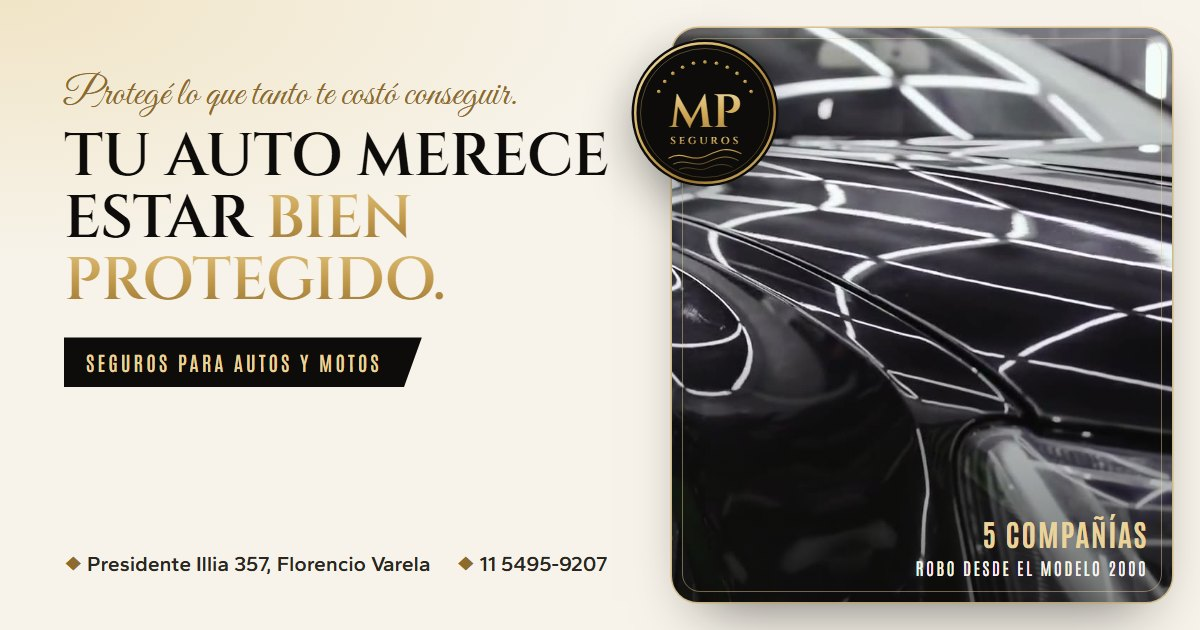
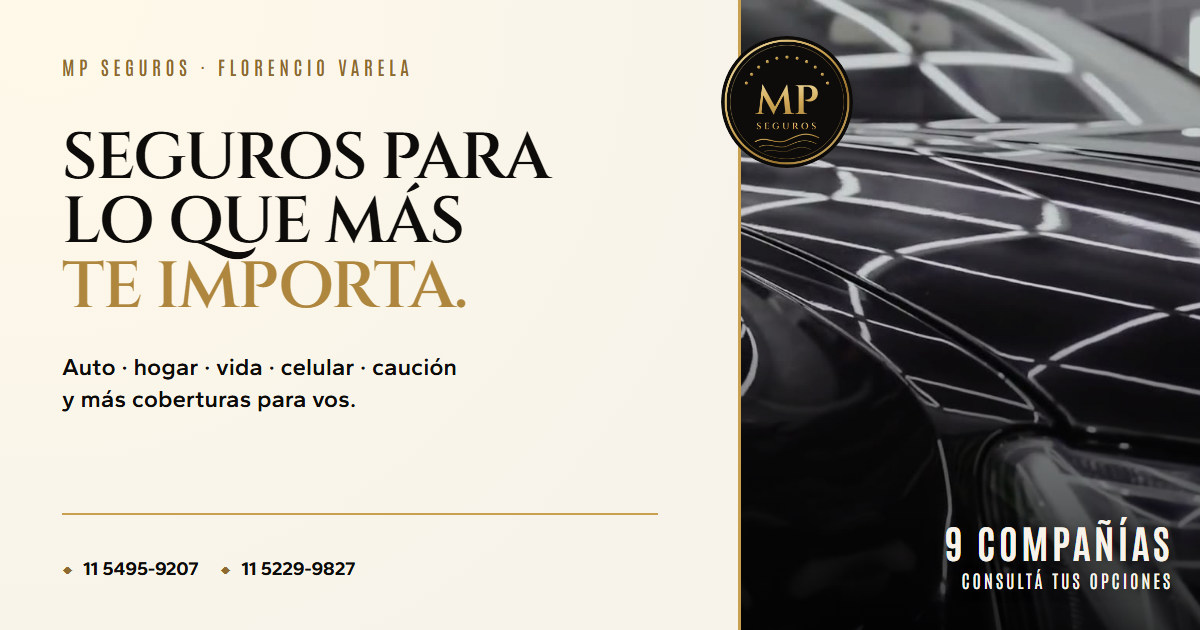
feat(demompseguros): actualizar coberturas, compañías y contactos

diff --git a/demompseguros/index.html b/demompseguros/index.html
@@ -3,17 +3,17 @@
 <head>
   <meta charset="UTF-8">
   <meta name="viewport" content="width=device-width, initial-scale=1, viewport-fit=cover">
-  <title>MP Seguros | Seguros de auto y moto en Florencio Varela</title>
-  <meta name="description" content="Seguros de auto, moto, camioneta, camión, bici y hogar en Florencio Varela. Cotizamos en 5 compañías y cubrimos robo desde el modelo 2000. Mandá tu cédula.">
-  <meta name="keywords" content="seguros Florencio Varela, seguro de auto Florencio Varela, seguro de moto, seguro para Uber, seguro DiDi, seguro Cabify, seguro de camión, seguro de hogar, MP Seguros, Presidente Illia 357">
+  <title>MP Seguros | Auto, vida y caución en Florencio Varela</title>
+  <meta name="description" content="Seguros de auto, moto, hogar, celular, vida, accidentes personales, bolso deportivo y caución en Florencio Varela. Consultá con MP Seguros por WhatsApp.">
+  <meta name="keywords" content="seguros Florencio Varela, seguro de auto, seguro de moto, seguro de celular, accidentes personales, seguro de vida, bolso deportivo, seguro de caución, MP Seguros">
   <meta name="author" content="TuPaginaYa">
   <meta name="robots" content="index, follow">
   <meta name="theme-color" content="#0D0C0A">
   <link rel="canonical" href="https://tusitiowebya.github.io/demompseguros/">
 
   <meta property="og:type" content="website">
-  <meta property="og:title" content="MP Seguros | Seguros de auto y moto en Florencio Varela">
-  <meta property="og:description" content="Seguros de auto, moto, camioneta, camión, bici y hogar en Florencio Varela. Cotizamos en 5 compañías y cubrimos robo desde el modelo 2000. Mandá tu cédula.">
+  <meta property="og:title" content="MP Seguros | Auto, vida y caución en Florencio Varela">
+  <meta property="og:description" content="Seguros de auto, moto, hogar, celular, vida, accidentes personales, bolso deportivo y caución en Florencio Varela. Consultá con MP Seguros por WhatsApp.">
   <meta property="og:url" content="https://tusitiowebya.github.io/demompseguros/">
   <meta property="og:image" content="https://tusitiowebya.github.io/demompseguros/og-image.jpg">
   <meta property="og:image:width" content="1200">
@@ -22,8 +22,8 @@
   <meta property="og:site_name" content="MP Seguros">
   <meta property="og:locale" content="es_AR">
   <meta name="twitter:card" content="summary_large_image">
-  <meta name="twitter:title" content="MP Seguros | Seguros de auto y moto en Florencio Varela">
-  <meta name="twitter:description" content="Cotizamos tu auto, moto, camioneta, camión, bici u hogar en 5 compañías. Robo desde el modelo 2000. Mandá tu cédula por WhatsApp.">
+  <meta name="twitter:title" content="MP Seguros | Auto, vida y caución en Florencio Varela">
+  <meta name="twitter:description" content="Auto, moto, hogar, celular, vida, accidentes personales, bolso deportivo y caución. Escribinos por WhatsApp y recibí cotizaciones.">
   <meta name="twitter:image" content="https://tusitiowebya.github.io/demompseguros/og-image.jpg">
 
   <link rel="icon" type="image/png" sizes="32x32" href="favicon-32.png">
@@ -41,7 +41,7 @@
     "@context": "https://schema.org",
     "@type": "InsuranceAgency",
     "name": "MP Seguros",
-    "description": "Seguros para autos, motos, camionetas, camiones, bicis y hogar en Florencio Varela. Cotización en Paraná Seguros, Agrosalta, San Patricio, ATM y Sancor Seguros, con asesoramiento sin cargo.",
+    "description": "Seguros para vehículos, hogar, celular, accidentes personales, vida, bolso deportivo y caución en Florencio Varela, con asesoramiento sin cargo.",
     "slogan": "Protegemos lo que más te importa",
     "url": "https://tusitiowebya.github.io/demompseguros/",
     "logo": "https://tusitiowebya.github.io/demompseguros/favicon-512.png",
@@ -57,12 +57,10 @@
     },
     "areaServed": { "@type": "City", "name": "Florencio Varela" },
     "sameAs": ["https://www.instagram.com/mpsegurospremium/"],
-    "contactPoint": {
-      "@type": "ContactPoint",
-      "telephone": "+54 9 11 5495-9207",
-      "contactType": "sales",
-      "availableLanguage": "es"
-    },
+    "contactPoint": [
+      { "@type": "ContactPoint", "telephone": "+54 9 11 5495-9207", "contactType": "sales", "availableLanguage": "es" },
+      { "@type": "ContactPoint", "telephone": "+54 9 11 5229-9827", "contactType": "sales", "availableLanguage": "es" }
+    ],
     "hasOfferCatalog": {
       "@type": "OfferCatalog",
       "name": "Seguros",
@@ -72,7 +70,12 @@
         { "@type": "Offer", "itemOffered": { "@type": "Service", "name": "Seguro para autos y motos de aplicaciones (Uber, DiDi, Cabify)" } },
         { "@type": "Offer", "itemOffered": { "@type": "Service", "name": "Seguro de camioneta y camión" } },
         { "@type": "Offer", "itemOffered": { "@type": "Service", "name": "Seguro de bicicleta" } },
-        { "@type": "Offer", "itemOffered": { "@type": "Service", "name": "Seguro de hogar" } }
+        { "@type": "Offer", "itemOffered": { "@type": "Service", "name": "Seguro de hogar" } },
+        { "@type": "Offer", "itemOffered": { "@type": "Service", "name": "Seguro de celular" } },
+        { "@type": "Offer", "itemOffered": { "@type": "Service", "name": "Seguro de accidentes personales" } },
+        { "@type": "Offer", "itemOffered": { "@type": "Service", "name": "Seguro de vida" } },
+        { "@type": "Offer", "itemOffered": { "@type": "Service", "name": "Seguro de bolso deportivo" } },
+        { "@type": "Offer", "itemOffered": { "@type": "Service", "name": "Seguro de caución" } }
       ]
     }
   }
@@ -115,15 +118,16 @@
           <span class="l2">estar <em>bien protegido.</em></span>
         </h1>
         <div class="hero__row">
-          <p class="hero__lead">Seguros para <strong>autos, motos, camionetas, camiones, bicis y hogar</strong> en Florencio Varela. Te cotizamos en <strong>5 compañías</strong> y te asesoramos sin cargo.</p>
+          <p class="hero__lead">Seguros para <strong>vehículos, hogar, celular, accidentes personales, vida, bolso deportivo y caución</strong> en Florencio Varela. Te acercamos opciones de <strong>9 compañías</strong> y te asesoramos sin cargo.</p>
           <div class="hero__cta">
-            <a class="btn btn--ink" href="https://wa.me/5491154959207?text=Hola%20MP%20Seguros!%20Quiero%20cotizar.%20Les%20mando%20foto%20de%20la%20c%C3%A9dula%20(frente%20y%20dorso)." target="_blank" rel="noopener" data-wa="cedula">
+            <a class="btn btn--ink" href="https://wa.me/5491154959207?text=Hola%20MP%20Seguros!%20Quiero%20cotizar.%20Les%20mando%20foto%20de%20la%20c%C3%A9dula%20verde%20(frente%20y%20dorso)." target="_blank" rel="noopener" data-wa="cedula">
               <svg viewBox="0 0 24 24" aria-hidden="true"><use href="#i-wa"/></svg>
-              Mandanos tu cédula
+              Envíanos tu cédula verde
             </a>
             <a class="btn btn--line" href="#cotizar">Armá tu consulta <span aria-hidden="true">↓</span></a>
           </div>
         </div>
+        <p class="hero__credential">Código de productor 80.117</p>
       </div>
 
       <div class="hero__stage">
@@ -133,7 +137,7 @@
           </video>
           <div class="hero__shade" aria-hidden="true"></div>
           <ul class="hero__facts" aria-label="Lo principal">
-            <li><b>5</b><span>compañías <br>para comparar</span></li>
+            <li><b>9</b><span>compañías <br>para comparar</span></li>
             <li><b>2000</b><span>robo desde <br>ese modelo</span></li>
             <li><b>$0</b><span>asesoramiento <br>sin cargo</span></li>
           </ul>
@@ -166,8 +170,8 @@
       <div class="wrap">
         <header class="quote__head reveal">
           <p class="kicker">Cotizá en el momento</p>
-          <h2>Mandanos tu cédula<br><span>y te decimos cuánto sale.</span></h2>
-          <p class="quote__intro">Contanos qué querés asegurar. Armamos la consulta con todo lo que necesitamos y la mandás por WhatsApp con la foto de la cédula. Así te cotizamos en las 5 compañías de una.</p>
+          <h2>Envíanos tu cédula verde<br><span>te enviamos las mejores cotizaciones.</span></h2>
+          <p class="quote__intro">Si querés asegurar un vehículo, armá tu consulta y adjuntá una foto de la cédula verde por WhatsApp. Para celular, vida y otros seguros, encontrá el acceso directo más abajo.</p>
         </header>
 
         <div class="quote__grid">
@@ -237,17 +241,23 @@
               </div>
               <div class="ficha__cias">
                 <span>Comparamos en</span>
-                <ul><li>Paraná</li><li>Agrosalta</li><li>San Patricio</li><li>ATM</li><li>Sancor</li></ul>
+                <ul><li>Zurich</li><li>Sancor</li><li>BBVA</li><li>Agrosalta</li><li>AMCA</li><li>Plenaria</li><li>ATM</li><li>San Patricio</li><li>Digna</li></ul>
               </div>
               <div class="ficha__stamp" id="stamp" aria-hidden="true">
                 <svg viewBox="0 0 120 120"><circle cx="60" cy="60" r="54"/><circle cx="60" cy="60" r="46"/><text x="60" y="56">LISTA</text><text x="60" y="74" class="s">PARA COTIZAR</text></svg>
               </div>
             </div>
-            <a class="btn btn--wa btn--block" id="quoteSend" href="#" target="_blank" rel="noopener">
-              <svg viewBox="0 0 24 24" aria-hidden="true"><use href="#i-wa"/></svg>
-              Enviar consulta por WhatsApp
-            </a>
-            <p class="card-note" id="quoteNote">En el chat adjuntá la foto de la cédula (frente y dorso). La cobertura final depende de la compañía y del vehículo: te la explicamos antes de emitir.</p>
+            <div class="quote__send">
+              <a class="btn btn--wa btn--block" id="quoteSend" href="#" target="_blank" rel="noopener">
+                <svg viewBox="0 0 24 24" aria-hidden="true"><use href="#i-wa"/></svg>
+                Enviar al 11 5495-9207
+              </a>
+              <a class="btn btn--line btn--block" id="quoteSendAlt" href="#" target="_blank" rel="noopener">
+                <svg viewBox="0 0 24 24" aria-hidden="true"><use href="#i-wa"/></svg>
+                Enviar al 11 5229-9827
+              </a>
+            </div>
+            <p class="card-note" id="quoteNote">Si cotizás un vehículo, adjuntá la foto de la cédula verde (frente y dorso). Las coberturas dependen de la compañía: te explicamos las opciones antes de emitir.</p>
           </aside>
         </div>
       </div>
@@ -264,15 +274,19 @@
       <div class="wrap">
         <div class="cias__head reveal">
           <p class="script">¡Tenemos nuevas compañías para vos!</p>
-          <h2>Una consulta.<br>Cinco compañías.</h2>
+          <h2>Una consulta.<br>Nueve compañías.</h2>
           <p>No te atás a una sola aseguradora: comparamos por vos y te explicamos las diferencias en criollo, para que elijas la que mejor te cubre.</p>
         </div>
         <ol class="cias__list reveal" aria-label="Compañías con las que trabajamos">
-          <li style="--c:#1F3F8F"><span class="n">01</span><b>Paraná</b><small>Seguros</small></li>
-          <li style="--c:#E08A1E"><span class="n">02</span><b>Agrosalta</b><small>Cooperativa de Seguros Ltda.</small></li>
-          <li style="--c:#C8201E"><span class="n">03</span><b>San Patricio</b><small>Seguros</small></li>
-          <li style="--c:#B0182C"><span class="n">04</span><b>ATM</b><small>Seguros</small></li>
-          <li style="--c:#B01E68"><span class="n">05</span><b>Sancor</b><small>Seguros</small></li>
+          <li style="--c:#2E78B7"><span class="n">01</span><b>Zurich</b><small>Seguros</small></li>
+          <li style="--c:#B01E68"><span class="n">02</span><b>Sancor</b><small>Seguros</small></li>
+          <li style="--c:#1764B2"><span class="n">03</span><b>BBVA</b><small>Seguros</small></li>
+          <li style="--c:#E08A1E"><span class="n">04</span><b>Agrosalta</b><small>Seguros</small></li>
+          <li style="--c:#6E8C45"><span class="n">05</span><b>AMCA</b><small>Seguros</small></li>
+          <li style="--c:#7462A1"><span class="n">06</span><b>Plenaria</b><small>Seguros</small></li>
+          <li style="--c:#B0182C"><span class="n">07</span><b>ATM</b><small>Seguros</small></li>
+          <li style="--c:#C8201E"><span class="n">08</span><b>San Patricio</b><small>Seguros</small></li>
+          <li style="--c:#A46B45"><span class="n">09</span><b>Digna</b><small>Seguros</small></li>
         </ol>
         <ul class="cias__why reveal">
           <li><svg viewBox="0 0 24 24" aria-hidden="true"><use href="#i-shield"/></svg><b>Más opciones</b><span>para vos</span></li>
@@ -329,6 +343,20 @@
             <h3>Tu casa, también.</h3>
             <p>Además de vehículos, cotizamos seguro de hogar para casa, departamento o PH, seas propietario o inquilino.</p>
             <button class="btn btn--ink" type="button" data-preset="hogar">Cotizar mi hogar</button>
+          </div>
+        </div>
+        <div class="fleet__more reveal" id="otros-seguros">
+          <div class="fleet__more-head">
+            <p class="kicker">Otras coberturas</p>
+            <h3>También aseguramos lo que te acompaña todos los días.</h3>
+            <p>Elegí lo que necesitás y abrí una consulta por WhatsApp. Te contamos qué opciones hay para tu caso.</p>
+          </div>
+          <div class="fleet__more-list">
+            <a data-product="un seguro de celular" href="https://wa.me/5491154959207" target="_blank" rel="noopener"><span>01</span><b>Celular</b><small>Consultar seguro ↗</small></a>
+            <a data-product="un seguro de accidentes personales" href="https://wa.me/5491154959207" target="_blank" rel="noopener"><span>02</span><b>Accidentes personales</b><small>Consultar seguro ↗</small></a>
+            <a data-product="un seguro de vida" href="https://wa.me/5491154959207" target="_blank" rel="noopener"><span>03</span><b>Vida</b><small>Consultar seguro ↗</small></a>
+            <a data-product="un seguro de bolso deportivo" href="https://wa.me/5491154959207" target="_blank" rel="noopener"><span>04</span><b>Bolso deportivo</b><small>Consultar seguro ↗</small></a>
+            <a data-product="un seguro de caución" href="https://wa.me/5491154959207" target="_blank" rel="noopener"><span>05</span><b>Caución</b><small>Consultar seguro ↗</small></a>
           </div>
         </div>
       </div>
@@ -395,7 +423,6 @@
       <div class="ig__rail reveal" tabindex="0" aria-label="Publicaciones de Instagram">
         <a href="https://www.instagram.com/p/Dc1nXRoNvlU/" target="_blank" rel="noopener"><img src="img/ig-auto.jpg" alt="Flyer: Tu auto merece estar bien protegido. Cobertura de robo desde el año 2000" loading="lazy" width="720" height="900"></a>
         <a href="https://www.instagram.com/p/Dc-M1-qOjgQ/" target="_blank" rel="noopener"><img src="img/ig-apps.jpg" alt="Flyer: Asegurá tu auto o moto para aplicaciones Uber, DiDi y Cabify" loading="lazy" width="720" height="900"></a>
-        <a href="https://www.instagram.com/p/Dc-MSVluysm/" target="_blank" rel="noopener"><img src="img/ig-companias.jpg" alt="Flyer: Tenemos nuevas compañías para vos" loading="lazy" width="720" height="900"></a>
         <a href="https://www.instagram.com/p/DcyX6Vxu5E1/" target="_blank" rel="noopener"><img src="img/ig-vehiculos.jpg" alt="Flyer: Aseguramos todos tus vehículos: camión, camioneta, auto, moto y bici" loading="lazy" width="720" height="720"></a>
         <a href="https://www.instagram.com/reel/DdCUkAmzemS/" target="_blank" rel="noopener"><img src="img/ig-choques.jpg" alt="Reel: Nosotros cubrimos tus choques, asistencia en el lugar del accidente" loading="lazy" width="506" height="900"></a>
         <a href="https://www.instagram.com/p/DcynqceOZRz/" target="_blank" rel="noopener"><img src="img/ig-instagram.jpg" alt="Flyer: ¿Ya nos seguís en Instagram?" loading="lazy" width="720" height="900"></a>
@@ -425,11 +452,11 @@
           <h2>Preguntas frecuentes</h2>
           <details>
             <summary>¿Qué necesito para cotizar?</summary>
-            <p>Con una foto de la cédula del vehículo (frente y dorso) alcanza para arrancar. Si no la tenés a mano, pasanos marca, modelo, año y para qué lo usás. Para hogar, el tipo de vivienda y la zona.</p>
+            <p>Para vehículos, mandanos una foto de la cédula verde (frente y dorso). Si no la tenés a mano, pasanos marca, modelo, año y uso. Para hogar y las demás coberturas, contanos qué querés asegurar y te indicamos los datos necesarios.</p>
           </details>
           <details>
             <summary>¿Con qué compañías trabajan?</summary>
-            <p>Cotizamos en Paraná Seguros, Agrosalta Cooperativa de Seguros, San Patricio Seguros, ATM Seguros y Sancor Seguros. Te mostramos las opciones y te explicamos las diferencias.</p>
+            <p>Trabajamos con Zurich, Sancor, BBVA, Agrosalta, AMCA, Plenaria, ATM, San Patricio y Digna. Te mostramos las opciones disponibles para tu caso y te explicamos las diferencias.</p>
           </details>
           <details>
             <summary>¿Aseguran contra robo autos más viejos?</summary>
@@ -457,10 +484,14 @@
         <svg class="close__seal" viewBox="0 0 200 200" aria-hidden="true"><use href="#seal"/></svg>
         <p class="script">Estamos para acompañarte</p>
         <h2>Protegemos lo que más te importa.</h2>
-        <a class="btn btn--gold btn--xl" href="https://wa.me/5491154959207?text=Hola%20MP%20Seguros!%20Quiero%20cotizar%20un%20seguro." target="_blank" rel="noopener" data-wa="cierre">
-          <svg viewBox="0 0 24 24" aria-hidden="true"><use href="#i-wa"/></svg>
-          Hablemos por WhatsApp<span class="btn__num"> · 11 5495-9207</span>
-        </a>
+        <div class="close__actions">
+          <a class="btn btn--gold btn--xl" href="https://wa.me/5491154959207?text=Hola%20MP%20Seguros!%20Quiero%20cotizar%20un%20seguro." target="_blank" rel="noopener" data-wa="cierre">
+            <svg viewBox="0 0 24 24" aria-hidden="true"><use href="#i-wa"/></svg>11 5495-9207
+          </a>
+          <a class="btn btn--ghost-light btn--xl" href="https://wa.me/5491152299827?text=Hola%20MP%20Seguros!%20Quiero%20cotizar%20un%20seguro." target="_blank" rel="noopener" data-wa="cierre-alt">
+            <svg viewBox="0 0 24 24" aria-hidden="true"><use href="#i-wa"/></svg>11 5229-9827
+          </a>
+        </div>
       </div>
     </section>
   </main>
@@ -475,7 +506,9 @@
       <ul class="foot__list">
         <li><svg viewBox="0 0 24 24" aria-hidden="true"><use href="#i-pin"/></svg>Presidente Illia 357, Florencio Varela</li>
         <li><svg viewBox="0 0 24 24" aria-hidden="true"><use href="#i-wa"/></svg><a href="https://wa.me/5491154959207" target="_blank" rel="noopener">11 5495-9207</a></li>
+        <li><svg viewBox="0 0 24 24" aria-hidden="true"><use href="#i-wa"/></svg><a href="https://wa.me/5491152299827" target="_blank" rel="noopener">11 5229-9827</a></li>
         <li><svg viewBox="0 0 24 24" aria-hidden="true"><use href="#i-ig"/></svg><a href="https://www.instagram.com/mpsegurospremium/" target="_blank" rel="noopener">@mpsegurospremium</a></li>
+        <li>Código de productor: 80.117</li>
       </ul>
       <ul class="foot__nav">
         <li><a href="#cotizar">Cotizar</a></li>

diff --git a/demompseguros/style.css b/demompseguros/style.css
@@ -178,6 +178,7 @@ p { margin: 0; }
 }
 .hero__lead { max-width: 560px; font-size: clamp(1rem, 1.25vw, 1.14rem); color: var(--ink-3); }
 .hero__lead strong { color: var(--ink); font-weight: 600; }
+.hero__credential { margin-top: 18px; font-family: var(--f-cond); font-size: .88rem; letter-spacing: .14em; text-transform: uppercase; color: var(--gold-1); }
 .hero__cta { display: flex; gap: 12px; flex-wrap: wrap; flex: none; }
 
 .hero__stage { position: relative; width: min(1320px, 100%); margin-inline: auto; min-height: 260px; display: flex; }
@@ -256,6 +257,8 @@ section h2 { font-family: var(--f-display); font-weight: 600; font-size: clamp(1
 .quote__head h2 span { font-family: var(--f-body); font-weight: 500; text-transform: none; color: var(--muted); letter-spacing: -.01em; font-size: .78em; }
 .quote__intro { margin-top: 16px; color: var(--ink-3); max-width: 640px; }
 .quote__grid { display: grid; grid-template-columns: minmax(0, 1.12fr) minmax(0, .88fr); gap: clamp(28px, 4vw, 60px); align-items: start; }
+.quote__send { display: grid; gap: 10px; }
+.quote__send .btn { justify-content: center; font-size: .94rem; }
 
 .step { border: 0; margin: 0 0 30px; padding: 0 0 30px; border-bottom: 1px dashed rgba(142, 107, 44, .35); min-width: 0; }
 .step--last { border-bottom: 0; margin-bottom: 0; }
@@ -415,12 +418,12 @@ section h2 { font-family: var(--f-display); font-weight: 600; font-size: clamp(1
 .cias__head p:last-child { color: var(--ink-3); }
 .cias__list {
   list-style: none; margin: clamp(36px, 5vw, 56px) 0 0; padding: 0;
-  display: grid; grid-template-columns: repeat(5, minmax(0, 1fr)); gap: 14px;
+  display: grid; grid-template-columns: repeat(3, minmax(0, 1fr)); gap: 14px;
 }
 .cias__list li {
   position: relative; background: var(--white); border-radius: 18px;
   padding: 22px 20px 24px; border: 1px solid var(--line);
-  display: flex; flex-direction: column; gap: 4px; min-height: 176px;
+  display: flex; flex-direction: column; gap: 4px; min-height: 150px;
   transition: transform .45s var(--ease), box-shadow .45s var(--ease);
 }
 .cias__list li::before { content: ""; position: absolute; left: 20px; right: 20px; top: 0; height: 3px; border-radius: 0 0 3px 3px; background: var(--c); }
@@ -505,6 +508,17 @@ section h2 { font-family: var(--f-display); font-weight: 600; font-size: clamp(1
 .home-band > div { padding: clamp(28px, 4vw, 56px); display: flex; flex-direction: column; justify-content: center; gap: 14px; align-items: flex-start; }
 .home-band h3 { font-family: var(--f-display); font-size: clamp(1.6rem, 3vw, 2.4rem); line-height: 1.1; }
 .home-band p { color: var(--ink-3); margin-bottom: 6px; }
+.fleet__more { margin-top: clamp(46px, 7vw, 90px); padding-top: clamp(36px, 5vw, 60px); border-top: 1px solid var(--line-2); }
+.fleet__more-head { display: grid; grid-template-columns: 1.15fr .85fr; gap: 12px clamp(24px, 5vw, 70px); align-items: end; }
+.fleet__more-head .kicker { grid-column: 1 / -1; }
+.fleet__more-head h3 { font-family: var(--f-display); font-size: clamp(1.75rem, 3vw, 2.7rem); line-height: 1.1; }
+.fleet__more-head > p:last-child { color: var(--ink-3); }
+.fleet__more-list { display: grid; grid-template-columns: repeat(5, minmax(0, 1fr)); gap: 12px; margin-top: clamp(26px, 4vw, 42px); }
+.fleet__more-list a { display: flex; flex-direction: column; min-height: 164px; padding: 20px; border-radius: 18px; border: 1px solid var(--line); background: var(--white); text-decoration: none; transition: transform .3s var(--ease), border-color .3s, box-shadow .3s; }
+.fleet__more-list a:hover, .fleet__more-list a:focus-visible { transform: translateY(-4px); border-color: var(--gold-2); box-shadow: 0 22px 35px -25px rgba(13, 12, 10, .45); }
+.fleet__more-list span { font-family: var(--f-cond); letter-spacing: .18em; color: var(--gold-1); font-size: .83rem; }
+.fleet__more-list b { margin: 18px 0 auto; font-family: var(--f-display); font-size: clamp(1.1rem, 1.5vw, 1.35rem); line-height: 1.1; }
+.fleet__more-list small { margin-top: 16px; color: var(--gold-1); font-weight: 700; }
 
 /* ---------- Si chocás ---------- */
 .crash { padding: clamp(72px, 10vw, 130px) 0; background: var(--paper-2); }
@@ -620,6 +634,7 @@ section h2 { font-family: var(--f-display); font-weight: 600; font-size: clamp(1
 .close__seal { width: 128px; height: 128px; margin-bottom: 8px; filter: drop-shadow(0 20px 30px rgba(0, 0, 0, .5)); }
 .close .script { color: var(--gold-2); }
 .close h2 { max-width: 820px; margin-bottom: 24px; }
+.close__actions { display: flex; justify-content: center; flex-wrap: wrap; gap: 12px; }
 
 /* ---------- Footer ---------- */
 .foot { background: #080706; color: rgba(247, 243, 234, .75); padding: 56px 0 28px; font-size: .95rem; }
@@ -631,6 +646,7 @@ section h2 { font-family: var(--f-display); font-weight: 600; font-size: clamp(1
 .foot__list, .foot__nav { list-style: none; margin: 0; padding: 0; display: grid; gap: 10px; }
 .foot__list li { display: flex; align-items: center; gap: 10px; }
 .foot__list svg { width: 18px; height: 18px; color: var(--gold-2); flex: none; }
+.foot__list li:last-child { color: var(--gold-2); font-family: var(--f-cond); text-transform: uppercase; letter-spacing: .08em; font-size: .86rem; }
 .foot a { text-decoration: none; }
 .foot a:hover { color: var(--gold-3); }
 .foot__legal { display: flex; justify-content: space-between; gap: 16px 30px; flex-wrap: wrap; padding-top: 22px; font-size: .82rem; color: rgba(247, 243, 234, .5); }
@@ -673,7 +689,7 @@ html.qa .promise__track, html.qa .hero__seal::after { animation: none; }
 @media (max-width: 1100px) {
   .nav__links { gap: 18px; }
   .nav__links a { font-size: .9rem; }
-  .cias__list { grid-template-columns: repeat(3, minmax(0, 1fr)); }
+  .fleet__more-list { grid-template-columns: repeat(3, minmax(0, 1fr)); }
   .garage { grid-template-columns: repeat(3, minmax(0, 1fr)); }
 }
 
@@ -711,6 +727,7 @@ html.qa .promise__track, html.qa .hero__seal::after { animation: none; }
   .fleet__row { grid-template-columns: repeat(3, minmax(0, 1fr)); }
   .fleet__row button:nth-child(4)::before { display: none; }
   .home-band { grid-template-columns: 1fr; }
+  .fleet__more-head { grid-template-columns: 1fr; }
   .client__grid .phone { order: 2; }
   .foot__grid { grid-template-columns: 1fr 1fr; }
   .foot__brand { grid-column: 1 / -1; }
@@ -749,6 +766,8 @@ html.qa .promise__track, html.qa .hero__seal::after { animation: none; }
   .cias__list li { min-height: 150px; min-width: 0; padding: 20px 16px 22px; }
   .cias__list b { font-size: 1.32rem; overflow-wrap: anywhere; }
   .cias__list li:last-child { grid-column: 1 / -1; }
+  .fleet__more-list { grid-template-columns: repeat(2, minmax(0, 1fr)); }
+  .fleet__more-list a:last-child { grid-column: 1 / -1; }
   .checks { grid-template-columns: 1fr; }
   .fields { grid-template-columns: 1fr; }
   .client__actions { grid-template-columns: 1fr; }
@@ -770,6 +789,10 @@ html.qa .promise__track, html.qa .hero__seal::after { animation: none; }
   .apps .ribbon span { font-size: .9rem; letter-spacing: .1em; }
   .fleet__row svg { width: 60px; height: 60px; padding: 11px; }
   .fleet__row span { font-size: .85rem; letter-spacing: .1em; }
+  .fleet__more-list a { min-height: 144px; padding: 16px; }
+  .fleet__more-list b { font-size: 1.18rem; }
+  .close__actions { width: 100%; }
+  .close__actions .btn { width: 100%; }
   .foot__grid { grid-template-columns: 1fr; }
   .btn--xl { font-size: .98rem; padding: 16px 18px; }
   .btn__num { display: none; }

diff --git a/demompseguros/script.js b/demompseguros/script.js
@@ -3,9 +3,10 @@
   'use strict';
 
   var WA = '5491154959207';
+  var WA_ALT = '5491152299827';
   var qs = function (s, c) { return (c || document).querySelector(s); };
   var qsa = function (s, c) { return Array.prototype.slice.call((c || document).querySelectorAll(s)); };
-  var waLink = function (msg) { return 'https://wa.me/' + WA + '?text=' + encodeURIComponent(msg); };
+  var waLink = function (msg, number) { return 'https://wa.me/' + (number || WA) + '?text=' + encodeURIComponent(msg); };
 
   if (/[?&]qa\b/.test(location.search)) document.documentElement.classList.add('qa');
 
@@ -124,6 +125,7 @@
   var stepYear = qs('#stepYear');
   var ficha = qs('#ficha');
   var send = qs('#quoteSend');
+  var sendAlt = qs('#quoteSendAlt');
   var nameIn = qs('#qName');
   var zoneIn = qs('#qZone');
   var touched = false;
@@ -215,8 +217,10 @@
     if (zoneIn.value.trim()) lines.push('• Localidad: ' + zoneIn.value.trim());
     if (type === 'hogar') lines.push('Les paso la dirección aproximada por acá.');
     else if (type === 'bici') lines.push('Les mando una foto de la bici y la factura si la tengo.');
-    else lines.push('Les mando foto de la cédula (frente y dorso).');
-    send.href = waLink(lines.join('\n'));
+    else lines.push('Les mando foto de la cédula verde (frente y dorso).');
+    var message = lines.join('\n');
+    send.href = waLink(message);
+    sendAlt.href = waLink(message, WA_ALT);
     qbarSend.href = send.href;
     qs('#qbarTitle').textContent = cfg.label + (cfg.year ? ' · ' + year : '') + ' · ' + useTxt;
     qs('#qbarSub').textContent = covs.length ? covs.join(', ') : 'Coberturas a definir con el asesor';
@@ -256,6 +260,10 @@
       var target = qs('#cotizar');
       target.scrollIntoView({ behavior: 'smooth', block: 'start' });
     });
+  });
+
+  qsa('[data-product]').forEach(function (a) {
+    a.href = waLink('Hola MP Seguros! Quiero consultar por ' + a.dataset.product + '.');
   });
 
   /* ---------- Ya soy cliente: chat de muestra + WhatsApp ---------- */
